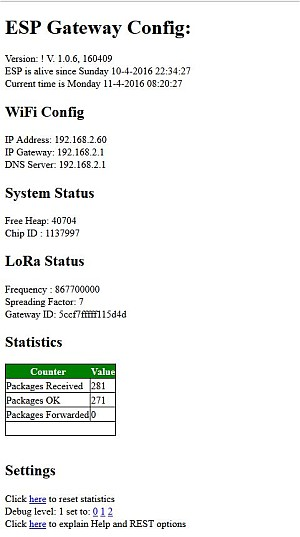
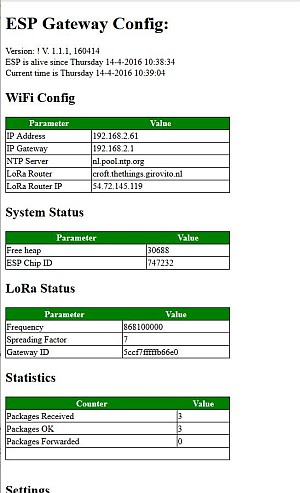
Version 1.1.1 of 1ch Gateway documented

Changed region(s): [[0.0, 0.0, 0.78, 1.0]]

diff --git a/HardwareGuide/Single-Channel-Gway/ESP-Gateway.html b/HardwareGuide/Single-Channel-Gway/ESP-Gateway.html
@@ -26,13 +26,37 @@ The 1-channel gateway has the following limitations compared to its bigger broth
 </ol>
 <h2>Building</h2>
 <p>As you can see on the picture above, the whole thing fits on a very small board. And as there are even less connections necessary as for the loRa node, this DIY project could be ready in a matter of hours. These are the steps:</p>
+<p>&nbsp;</p>
 <ul>
-  <li>The small white ESP adapter plate is too large for our purpose. One side is sticking out from the pins (the side WITHOUT the small resisitors). Take a small saw and cut away the piece of the board not needed. If necessary dry-fit the ESP95 module to see how much should be cut away.</li>
-  <li>Get rid of the 3 small resistors on the adapter plate (just hold your soldering iron to them for a second and swipe away a resistor)</li>
-  <li>Solder pin's to the Wemos D1-mini and the small white ESP adapter board.</li>
-  <li>push the ESP adapter board in one of those experiment boards (So it cools the pins when soldering)</li>
-  <li>Solder the RFM95 module to the adapter board. Be careful to not overheat the RFM95 module. The module should be located such that the side of the adapter that just has been cut is closest to the antenna pin of the RFM95(look at the picture above).</li>
-  <li>Use a piece of 4x6 cm glassfiber and layout both modules same way as in picture above.</li>
+  <li>The small white ESP adapter plate is too large for our purpose. One side is sticking out from the pins (this is the side WITHOUT the small resistors, right side on the picture). Take a small saw and cut away the piece of the board not needed. If necessary dry-fit the ESP95 module to see how much should be cut away. Make sure not to damage the RFM95 module.<br>
+    <br>
+    <img src="images/adapter-1.jpg" width="198" height="235"><br>
+    <br>
+  </li>
+  <li>Get rid of the 3 small resistors on the adapter plate (just hold your soldering iron to them for a second and swipe away a resistor)<br>
+    <br>
+  </li>
+  <li>Solder pin's to the Wemos D1-mini and the small white ESP adapter board.<br>
+    <br>
+    <a href="images/DSCN3055.JPG"><img src="images/DSCN3055.JPG" width="400" height="300"></a><br>
+    <br>
+  </li>
+  <li>push the ESP adapter board in one of those experiment bread boards (So it cools the pins when soldering)<br>
+    <br>
+  </li>
+  <li>Solder the RFM95 module to the adapter board. Be careful to not overheat the RFM95 module. The module should be located such that the side of the adapter that just has been cut is closest to the antenna pin of the RFM95(look at the picture above).<br>
+    <br>
+    <a href="images/DSCN3053.JPG"><img src="images/DSCN3053.JPG" width="400" height="300"></a><br>
+    <br>
+  </li>
+  <li>Use a piece of 4x6 cm glassfiber and layout both modules same way as in picture above.<br>
+    <br>
+  </li>
+  <li>Solder the antenna SMA connector close to the antenna pin and connect the center pin and the ground pins (bottom).<br>
+    <br>
+    <br>
+    <br>
+  </li>
   <li>Connect the RFM and the ESP with small pieces of wire as indicated in the &quot;connections&quot; table below.</li>
 </ul>
 <p>I did not yet find a nice box to put the gateway in, but that will probably not last very long.</p>
@@ -109,14 +133,14 @@ The 1-channel gateway has the following limitations compared to its bigger broth
 <p>Although watchdogs are not OK, they are an integral part of the ESP8266 design. The chip will reset in a very short amount of time so&nbsp;in principle we would not lose too many incoming packets (if any). However, since we will loose statistics data and probably the channel and WIFI setting as well if we make that dynamically, it would be better if we would not have ANY watchdog resets.</p>
 <p>Over the last week, both gateways have been running fine without any resets. So I had to add a date field in the webserver as well, since &quot;started on Friday&quot; would not give enough information at all.</p>
 <p>I built following webserver to view statistics and control debug level, channel assignment (future) etc. You can easily invoke the webserver at the IP address of the Gateway as follows: http://&lt;IP Address of Gateway&gt;:8080. The output looks like this. The interface also allows some setting of debug levels and statistics. More to come..</p>
-<p><a href="images/webserver-1.JPG"><img src="images/webserver-1-300.JPG" width="300" height="537" hspace="10" vspace="10"></a></p>
+<p><a href="images/webserver-1.JPG"><img src="images/webserver-1-300.JPG" width="300" height="493" hspace="10" vspace="10"></a></p>
 <h4>Todo:</h4>
 <ul>
   <li>Build function to assign the SSID and password dynamically (in progress)</li>
   <li>Support a list of well-known SSID's (for example home, work and your Telephone) and switch between them if necessary</li>
   <li>Dynamic channel assignment (listen for other gateways and choose a free channel)</li>
   <li>Find a nice box/case for the board.</li>
-  <li>Find a really nice power adapter with 2 Meters of wire forlittle money</li>
+  <li>Find a really nice power adapter with 2 Meters of wire for little money</li>
   <li>Battery power (probably not practical).</li>
 </ul>
 <h2>Costs</h2>

diff --git a/index.html b/index.html
@@ -31,6 +31,7 @@
 <ul>
   <li>Measuring your gateway range</li>
   <li>GPS</li>
+  <li>Very basic &quot;Alarm&quot; based on PIR sensor</li>
 </ul>
 <h1>&nbsp;</h1>
 </body>
